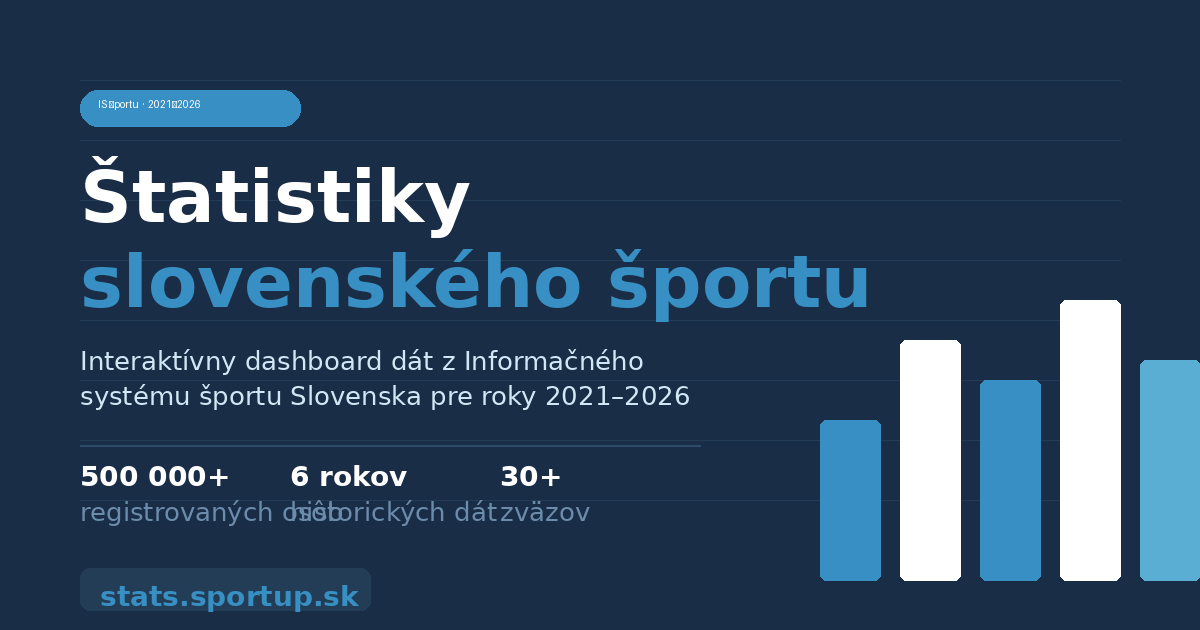
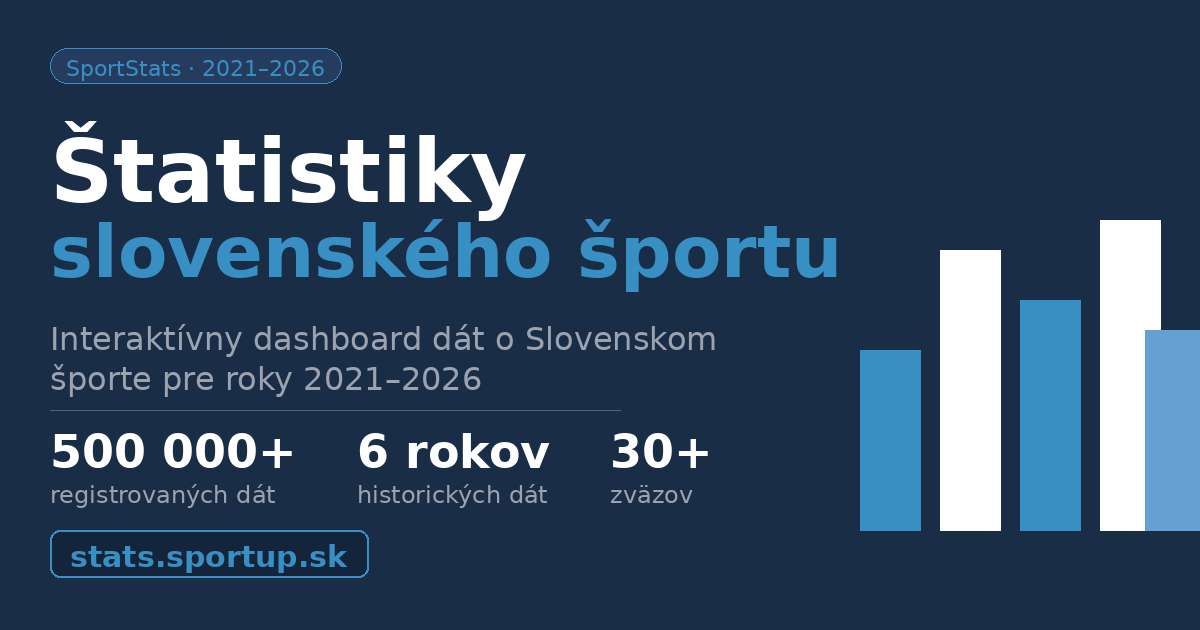
Update OG description + regenerate OG image: Good Idead Sport Slovakia text

Changed region(s): [[0.0308, 0.0905, 0.74, 0.8444], [0.6783, 0.3317, 1.0, 0.9349], [0.0617, 0.8746, 0.3083, 0.9651]]

diff --git a/pages/index.js b/pages/index.js
@@ -3,7 +3,7 @@ import Head from 'next/head'
 import Link from 'next/link'
 
 const OG_TITLE       = 'Štatistiky slovenského športu – SportStats'
-const OG_DESCRIPTION = 'Interaktívny dashboard dát z Informačného systému športu Slovenska. Vekové profily, zväzy, amatéri vs. profesionáli a vývoj 2021–2026.'
+const OG_DESCRIPTION = 'Interaktívny dashboard dát o Slovenskom športe pre roky 2021-2026'
 const OG_URL         = 'https://stats.sportup.sk'
 const OG_IMAGE       = 'https://stats.sportup.sk/og-image.png'
 